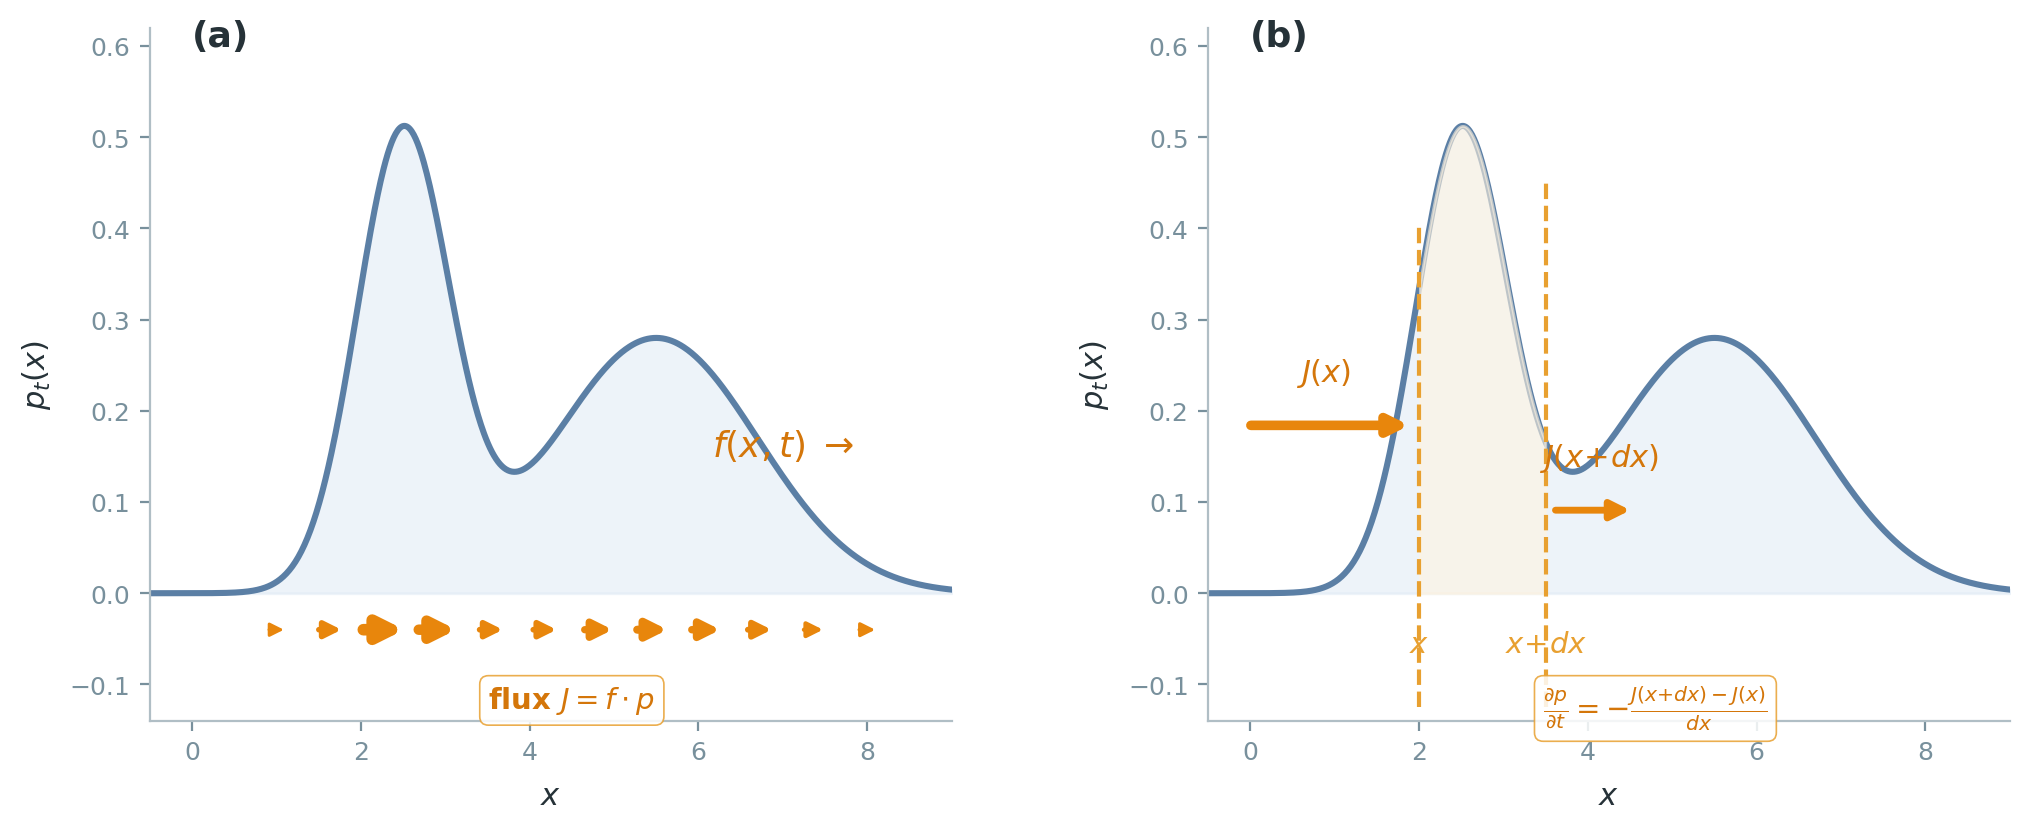
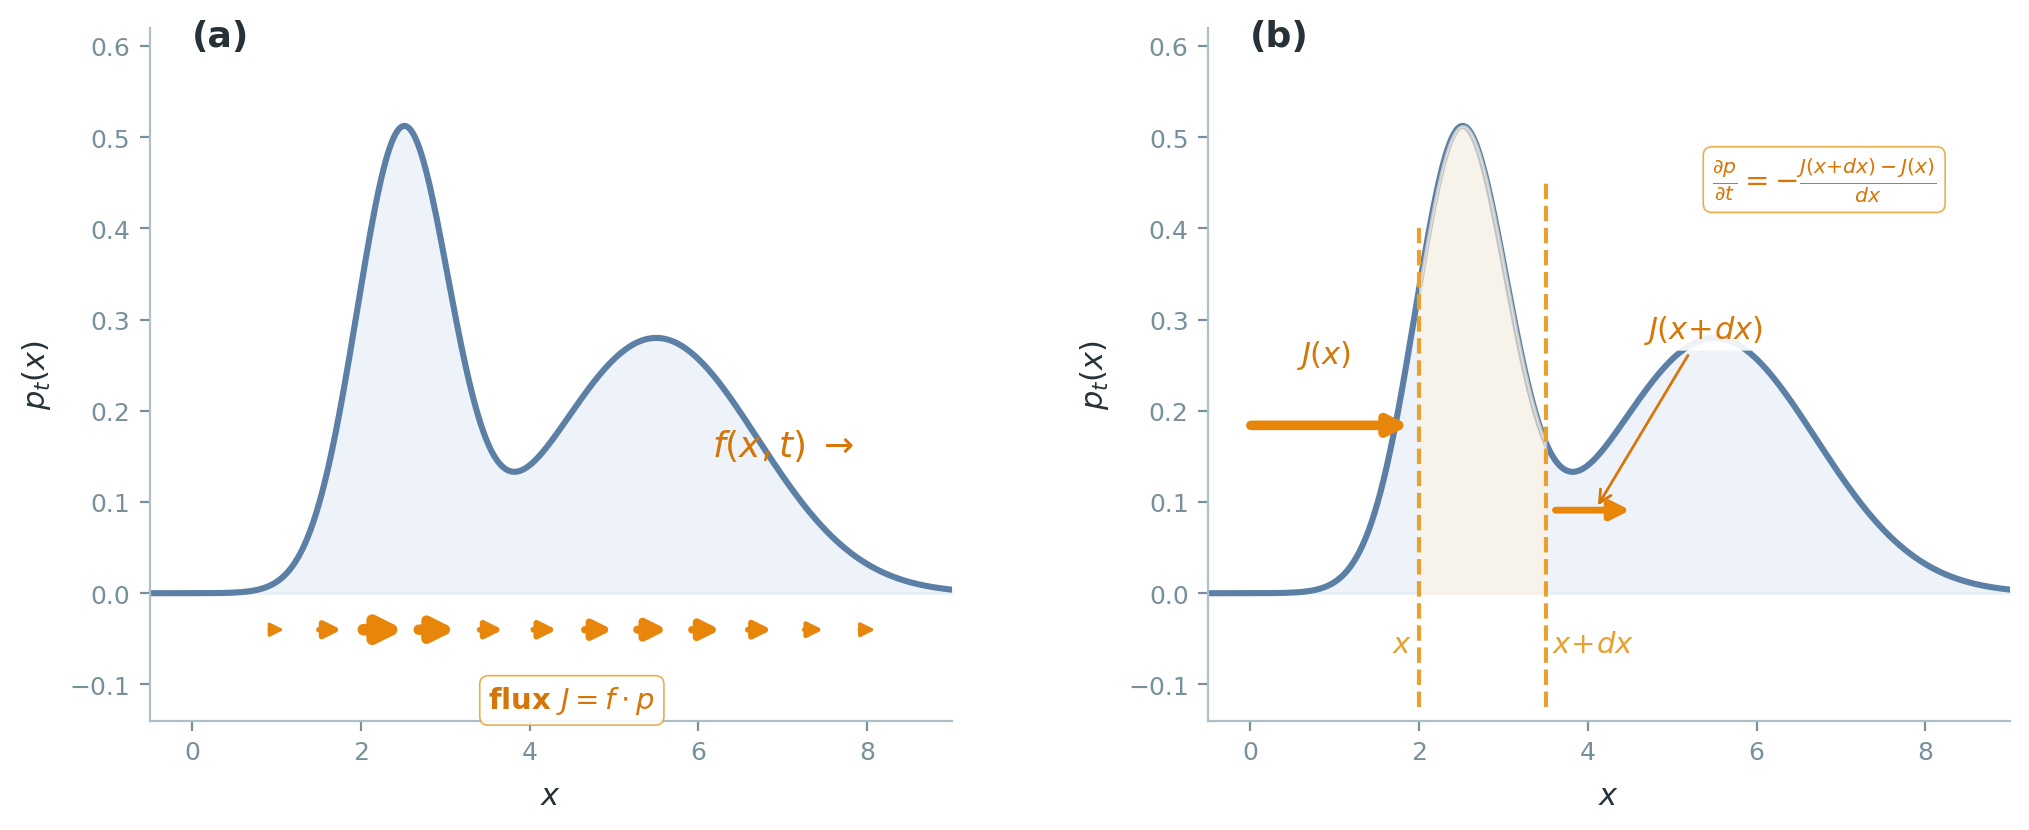
docs: Fix FP blog figures/text, correct publication metadata
Fokker-Planck blog post:
- Fix label clashing in drift advection panel (b): offset boundary
  labels, add leader line for J(x+dx), move equation box to upper-right
- Fix awkward "Rearranging:" sentence, remove boxed diffusion PDE

Publications:
- Fix swapped author lists between kim2025energybased and woo2025scalable
- Fix wrong author list for non-backtracking GNN (park2024nonbacktracking)
- Fix wrong arxiv ID for Adaptive Teachers (2410.14696 → 2410.01432)
- Fix "and and" typo in kim2025adaptive
- Expand "et al." to full author list in seo2025generative
- Add equal contribution markers: MELD, ReBind, DNACHUNKER, NBA-GNN

diff --git a/scripts/generate_fokker_planck_figures.py b/scripts/generate_fokker_planck_figures.py
@@ -174,11 +174,15 @@ def generate_drift_advection_figure(output_path):
     ax.axvline(slab_x + slab_dx, color=WARM_BORDER, linewidth=1.5,
                linestyle='--', ymin=0.02, ymax=0.78, zorder=2)
 
-    # Slab boundary labels
-    ax.text(slab_x, -0.04, r'$x$', ha='center', va='top',
-            fontsize=10.5, color=WARM_BORDER, fontweight='bold')
-    ax.text(slab_x + slab_dx, -0.04, r'$x\!+\!dx$', ha='center', va='top',
-            fontsize=10.5, color=WARM_BORDER, fontweight='bold')
+    # Slab boundary labels — offset from dashed lines with white backgrounds
+    _label_bbox = dict(boxstyle='round,pad=0.15', fc='white', alpha=0.9,
+                       ec='none')
+    ax.text(slab_x - 0.08, -0.04, r'$x$', ha='right', va='top',
+            fontsize=10.5, color=WARM_BORDER, fontweight='bold',
+            bbox=_label_bbox)
+    ax.text(slab_x + slab_dx + 0.08, -0.04, r'$x\!+\!dx$', ha='left',
+            va='top', fontsize=10.5, color=WARM_BORDER, fontweight='bold',
+            bbox=_label_bbox)
 
     # Incoming flux (left boundary) — thick
     flux_in = f_val * p_left
@@ -190,9 +194,11 @@ def generate_drift_advection_figure(output_path):
     lw_in = 1.5 + 3.0 * (flux_in / max_flux)
     _arrow(ax, (slab_x - in_len - 0.1, in_y), (slab_x - 0.05, in_y),
            lw=lw_in, ms=14, color=WARM_ARROW, zorder=4)
-    ax.text(slab_x - in_len / 2 - 0.15, in_y + 0.04,
+    ax.text(slab_x - in_len / 2 - 0.15, in_y + 0.06,
             r'$J(x)$', ha='center', va='bottom', fontsize=11,
-            color=WARM_ANNOT, fontweight='bold')
+            color=WARM_ANNOT, fontweight='bold',
+            bbox=dict(boxstyle='round,pad=0.15', fc='white', alpha=0.9,
+                      ec='none'))
 
     # Outgoing flux (right boundary) — thicker (density is higher at x+dx)
     out_y = p_right * 0.55
@@ -201,16 +207,22 @@ def generate_drift_advection_figure(output_path):
     _arrow(ax, (slab_x + slab_dx + 0.05, out_y),
            (slab_x + slab_dx + out_len + 0.1, out_y),
            lw=lw_out, ms=14, color=WARM_ARROW, zorder=4)
-    ax.text(slab_x + slab_dx + out_len / 2 + 0.15, out_y + 0.04,
-            r'$J(x\!+\!dx)$', ha='center', va='bottom', fontsize=11,
-            color=WARM_ANNOT, fontweight='bold')
+    # J(x+dx) label — use annotate with leader line to avoid overlap
+    ax.annotate(r'$J(x\!+\!dx)$',
+                xy=(slab_x + slab_dx + out_len / 2 + 0.1, out_y),
+                xytext=(slab_x + slab_dx + out_len + 0.9, out_y + 0.18),
+                fontsize=11, color=WARM_ANNOT, fontweight='bold',
+                ha='center', va='bottom',
+                arrowprops=dict(arrowstyle='->', color=WARM_ANNOT, lw=1.0),
+                bbox=dict(boxstyle='round,pad=0.15', fc='white', alpha=0.9,
+                          ec='none'))
 
     # Annotation: on ascending slope, J_in < J_out means flux diverges,
     # but since density is increasing rightward, more flux exits → net depletion
     # Actually: on ascending slope with constant f, J increases with p,
     # so J(x+dx) > J(x) → flux diverges → dp/dt < 0... unless we pick the other side.
     # Let's put the annotation explaining the general equation.
-    ax.text(4.8, -0.10,
+    ax.text(6.8, 0.48,
             r'$\frac{\partial p}{\partial t} = -\frac{J(x{+}dx) - J(x)}{dx}$',
             ha='center', va='top', fontsize=SUBLABEL_FS, color=WARM_ANNOT,
             fontweight='bold',

diff --git a/_posts/2026-02-04-fokker-planck-equation.md b/_posts/2026-02-04-fokker-planck-equation.md
@@ -2,7 +2,7 @@
 layout: post
 title: "The Fokker-Planck Equation"
 date: 2026-02-04
-last_updated: 2026-02-04
+last_updated: 2026-02-08
 description: "Three routes to the Fokker-Planck equation — intuition, heuristic discretization, and rigorous Itô calculus — building from physical pictures to mathematical proof."
 order: 2
 categories: [generative_model]
@@ -89,14 +89,11 @@ Now take the expectation term by term:
 
 {% include figure.liquid loading="eager" path="assets/img/blog/fp_diffusion_schematic.png" class="img-fluid rounded z-depth-1" zoomable=true caption="Why only the second derivative survives. (a) On a slope, a kick $+\epsilon$ raises the density by the same amount that $-\epsilon$ lowers it — the linear (slope) contributions cancel. (b) At a peak, both neighbors have lower density than $x$. The average of neighbors falls below $p_t(x)$, so the quadratic (curvature) term $\frac{\epsilon^2}{2}p_t'' < 0$ drives density down." %}
 
-After taking the expectation, only the curvature term remains: $$p_{t+\Delta t}(x) = p_t(x) + \frac{g^2\,\Delta t}{2}\,p_t''(x)$$. Rearranging:
+After taking the expectation, only the curvature term remains: $$p_{t+\Delta t}(x) = p_t(x) + \frac{g^2\,\Delta t}{2}\,p_t''(x)$$. Dividing by $$\Delta t$$ and taking the limit gives the **diffusion PDE** in one dimension:
 
-> **The diffusion PDE (1D).** Pure diffusion in one dimension gives
->
-> $$\displaystyle\frac{\partial p_t}{\partial t} = \frac{g^2}{2}\,\frac{\partial^2 p_t}{\partial x^2}$$
->
-> In $$D$$ dimensions, the noise components $$dw_1, \ldots, dw_D$$ are independent, so the same argument applies along each coordinate, giving $$\frac{g^2}{2}\,\Delta_{\mathbf{x}}\,p_t$$.
-{: .block-lemma }
+$$\displaystyle\frac{\partial p_t}{\partial t} = \frac{g^2}{2}\,\frac{\partial^2 p_t}{\partial x^2}$$
+
+In $$D$$ dimensions, the noise components $$dw_1, \ldots, dw_D$$ are independent, so the same argument applies along each coordinate, giving $$\frac{g^2}{2}\,\Delta_{\mathbf{x}}\,p_t$$.
 
 ---
 
